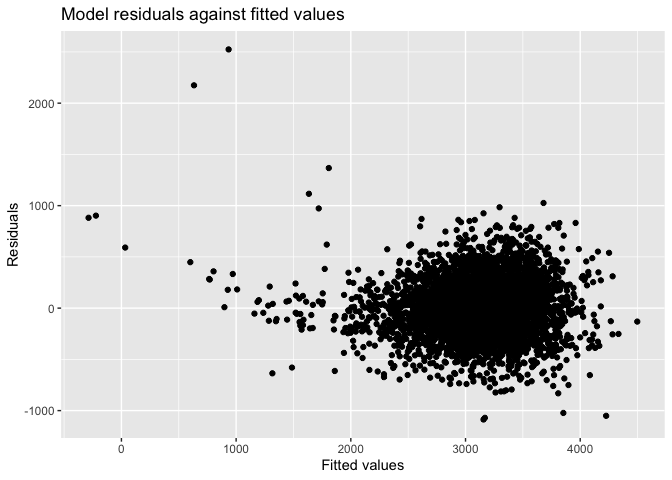
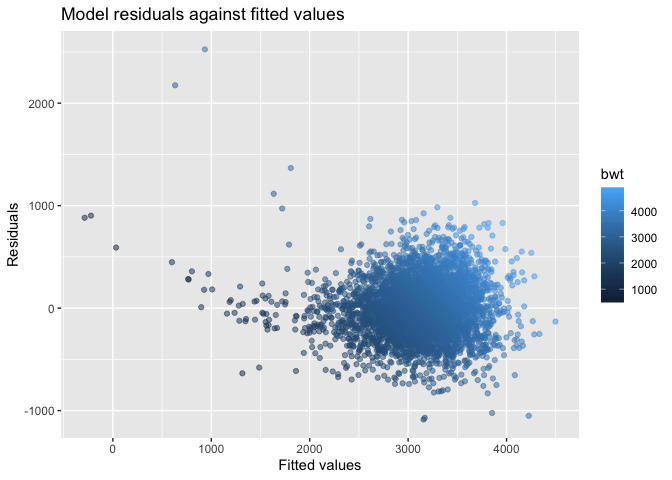
finish problem 1

diff --git a/p8105_hw6_xh2395.md b/p8105_hw6_xh2395.md
@@ -359,7 +359,7 @@ Now, all left variables are with a significant p-value.
 lm(formula = bwt ~ babysex + bhead + blength + delwt + fincome + gaweeks
 + mheight + parity + ppwt + smoken, data = bw\_clean)
 
-**tidy and table the final model**
+**Tidy and table the final model**
 
 ``` r
 model_6 %>% 
@@ -387,8 +387,8 @@ model_6 %>%
 bw_clean %>% 
 modelr::add_residuals(model_6) %>% 
 modelr::add_predictions(model_6) %>% 
-  ggplot(aes(x = pred, y = resid)) + 
-  geom_point()+
+  ggplot(aes(x = pred, y = resid, color = bwt)) + 
+  geom_point(alpha = 0.5)+
   labs(
     title = 'Model residuals against fitted values',
     x = 'Fitted values',
@@ -397,3 +397,68 @@ modelr::add_predictions(model_6) %>%
 ```
 
 ![](p8105_hw6_xh2395_files/figure-gfm/unnamed-chunk-12-1.png)<!-- -->
+
+**Two other models**
+
+``` r
+other_1 = lm(bwt ~ blength + gaweeks, data = bw_clean)
+broom::tidy(other_1)
+```
+
+    ## # A tibble: 3 x 5
+    ##   term        estimate std.error statistic  p.value
+    ##   <chr>          <dbl>     <dbl>     <dbl>    <dbl>
+    ## 1 (Intercept)  -4348.      98.0      -44.4 0.      
+    ## 2 blength        129.       1.99      64.6 0.      
+    ## 3 gaweeks         27.0      1.72      15.7 2.36e-54
+
+``` r
+other_2 = lm(bwt ~ bhead * blength + blength * babysex + bhead * babysex, data = bw_clean)
+broom::tidy(other_2)
+```
+
+    ## # A tibble: 7 x 5
+    ##   term                  estimate std.error statistic   p.value
+    ##   <chr>                    <dbl>     <dbl>     <dbl>     <dbl>
+    ## 1 (Intercept)           -3768.     860.        -4.38 0.0000120
+    ## 2 bhead                    79.5     25.9        3.06 0.00220  
+    ## 3 blength                  31.5     17.8        1.77 0.0772   
+    ## 4 babysexfemale           260.     198.         1.31 0.189    
+    ## 5 bhead:blength             1.56     0.527      2.96 0.00307  
+    ## 6 blength:babysexfemale     4.21     4.17       1.01 0.313    
+    ## 7 bhead:babysexfemale     -12.7      7.04      -1.80 0.0724
+
+**Comparison in terms of the cross-validated prediction error**
+
+``` r
+cv_df = 
+  crossv_mc(bw_clean, 100) %>% 
+  mutate(
+    train = map(train, as_tibble),
+    test = map(test, as_tibble))
+
+cv_df = 
+  cv_df %>% 
+  mutate(model_6_mod  = map(train, ~model_6),
+         other_1_mod  = map(train, ~other_1),
+         other_2_mod  = map(train, ~other_2)) %>% 
+  mutate(rmse_model_6 = map2_dbl(model_6_mod, test, ~rmse(model = .x, data = .y)),
+         rmse_other_1 = map2_dbl(other_1_mod, test, ~rmse(model = .x, data = .y)),
+         rmse_other_2 = map2_dbl(other_2_mod, test, ~rmse(model = .x, data = .y)))
+
+cv_df %>% 
+  select(starts_with("rmse")) %>% 
+  pivot_longer(
+    everything(),
+    names_to = "model", 
+    values_to = "rmse",
+    names_prefix = "rmse_") %>% 
+  mutate(model = fct_inorder(model)) %>% 
+  ggplot(aes(x = model, y = rmse)) + 
+    geom_violin()
+```
+
+![](p8105_hw6_xh2395_files/figure-gfm/unnamed-chunk-14-1.png)<!-- -->
+
+According to the plot, my own model has the lowest root mean square
+error and thus seems to be the model that predicts birthweight best.
